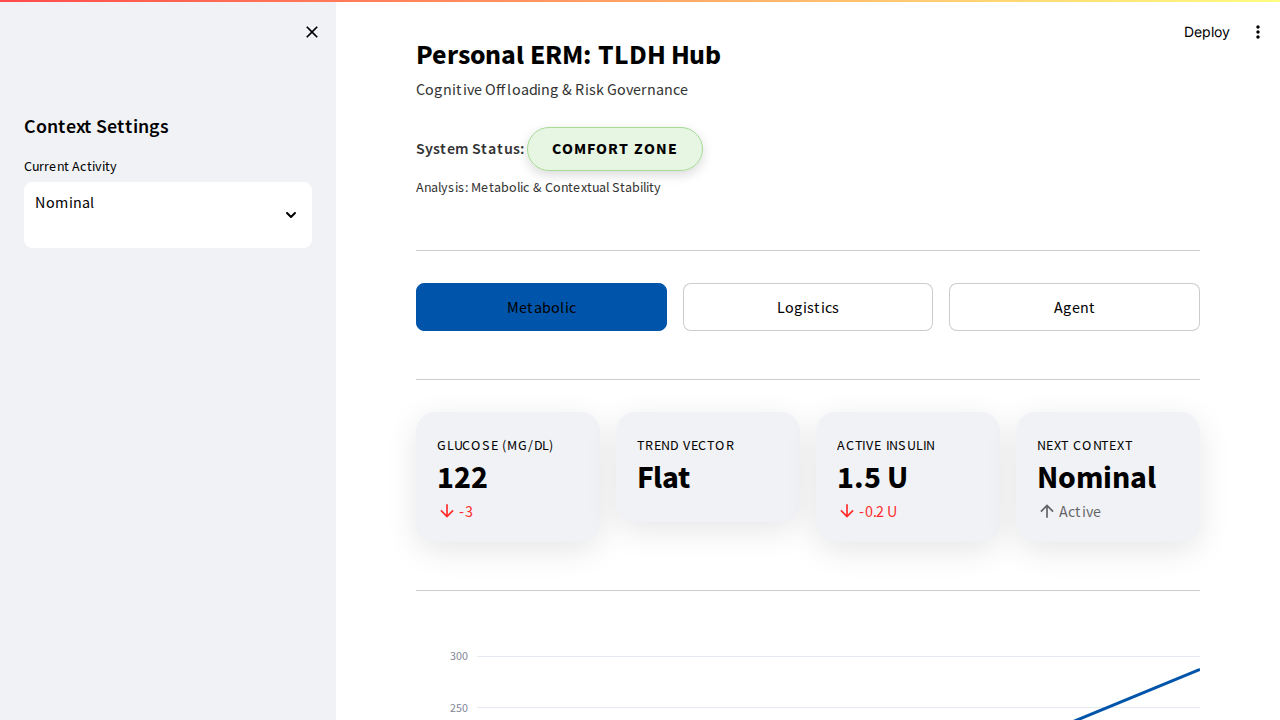
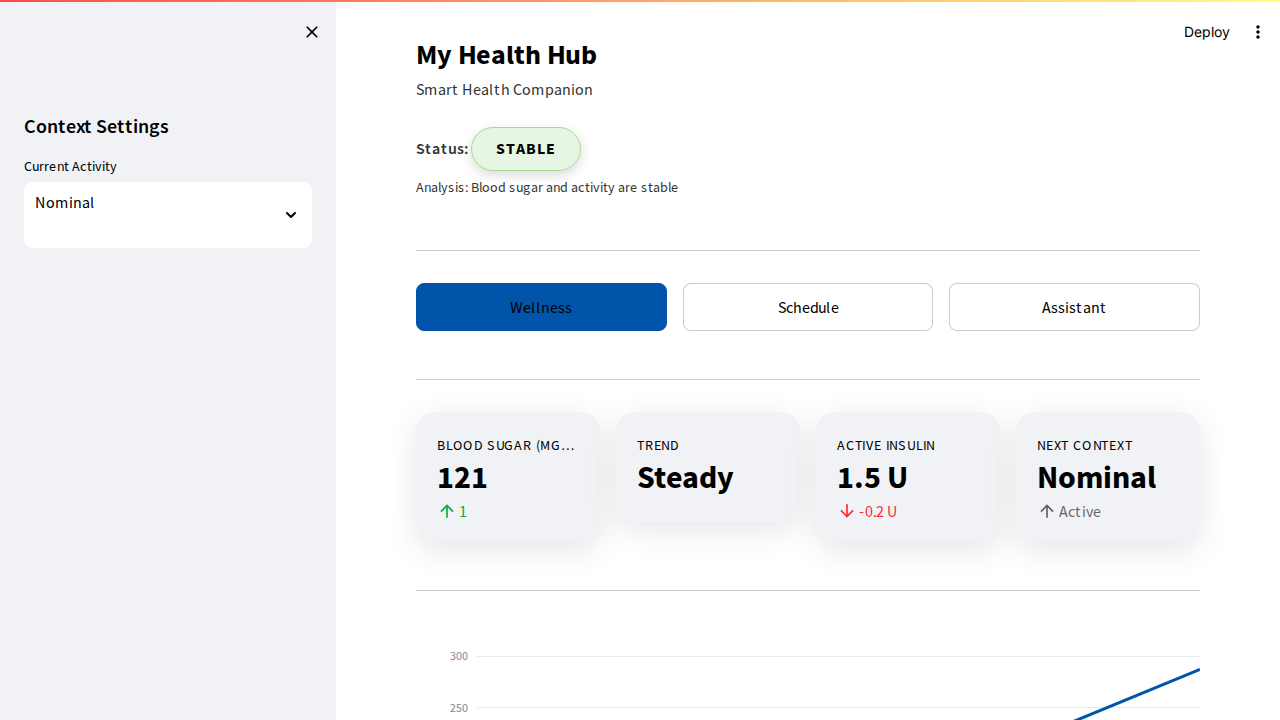
feat: refactor terminology for accessibility and fix test
- Refactored clinical terminology in `app.py`, `logic.py`, and `styles.py` to be more user-friendly and accessible.
- Updated health hub UI terminology (e.g., 'Metabolic' -> 'Wellness', 'Glucose' -> 'Blood Sugar').
- Updated trend indicators in `logic.py` (e.g., 'SingleUp' -> 'Rising', 'SingleDown' -> 'Falling').
- Implemented a generic security pattern in `app.py` to handle exceptions without exposing raw details to the UI.
- Restored and updated `tests/test_mock_data.py` to align with the new terminology in `logic.fetch_health_data()`.

diff --git a/app.py b/app.py
@@ -5,6 +5,10 @@ import google.generativeai as genai
 import styles
 import logic
 import json
+import logging
+
+logging.basicConfig(level=logging.ERROR)
+logger = logging.getLogger(__name__)
 
 # 1. PAGE SETUP
 st.set_page_config(page_title="TLDH | Contextual Life Hub", page_icon="🩸", layout="wide")
@@ -35,7 +39,8 @@ try:
         _, status, color, reason = logic.calc_glycemic_risk(full_data, current_context)
         latest = full_data.iloc[-1]
 except Exception as e:
-    st.error(f"System Error: {e}")
+    logger.error(f"Data loading failed: {e}", exc_info=True)
+    st.error("Oops! Something went wrong loading your health data.")
     st.stop()
 
 # 5. HEADER UI
@@ -43,11 +48,11 @@ safe_status = html.escape(str(status))
 safe_reason = html.escape(str(reason))
 st.markdown(f"""
     <div style="padding-bottom: 20px;">
-        <span style="font-size: 28px; font-weight: bold; color: {theme['TEXT_PRIMARY']};">Personal ERM: TLDH Hub</span><br>
-        <span style="color: {theme['TEXT_SECONDARY']};">Cognitive Offloading & Risk Governance</span>
+        <span style="font-size: 28px; font-weight: bold; color: {theme['TEXT_PRIMARY']};">My Health Hub</span><br>
+        <span style="color: {theme['TEXT_SECONDARY']};">Smart Health Companion</span>
     </div>
     <div style="margin-bottom: 20px;">
-        <span style="font-weight: 600; color: {theme['TEXT_SECONDARY']};">System Status: </span>
+        <span style="font-weight: 600; color: {theme['TEXT_SECONDARY']};">Status: </span>
         <div class="gov-pill" style="background: {color}44; border: 1px solid {color}; color: {theme['TEXT_PRIMARY']};">{safe_status}</div>
         <div style="margin-top: 5px; font-size: 14px; color: {theme['TEXT_SECONDARY']};">Analysis: {safe_reason}</div>
     </div>
@@ -56,33 +61,33 @@ st.divider()
 
 # 6. MOBILE-FIRST BUTTON NAVIGATION (Replacing Tabs)
 if "active_view" not in st.session_state:
-    st.session_state.active_view = "Metabolic"
+    st.session_state.active_view = "Wellness"
 
 col1, col2, col3 = st.columns(3)
 
 with col1:
-    if st.button("Metabolic", use_container_width=True, type="primary" if st.session_state.active_view == "Metabolic" else "secondary"):
-        st.session_state.active_view = "Metabolic"
+    if st.button("Wellness", use_container_width=True, type="primary" if st.session_state.active_view == "Wellness" else "secondary"):
+        st.session_state.active_view = "Wellness"
         st.rerun()
 
 with col2:
-    if st.button("Logistics", use_container_width=True, type="primary" if st.session_state.active_view == "Logistics" else "secondary"):
-        st.session_state.active_view = "Logistics"
+    if st.button("Schedule", use_container_width=True, type="primary" if st.session_state.active_view == "Schedule" else "secondary"):
+        st.session_state.active_view = "Schedule"
         st.rerun()
 
 with col3:
-    if st.button("Agent", use_container_width=True, type="primary" if st.session_state.active_view == "Agent" else "secondary"):
-        st.session_state.active_view = "Agent"
+    if st.button("Assistant", use_container_width=True, type="primary" if st.session_state.active_view == "Assistant" else "secondary"):
+        st.session_state.active_view = "Assistant"
         st.rerun()
 
 st.markdown("---")
 
 # 7. RENDER SELECTED VIEW
-if st.session_state.active_view == "Metabolic":
+if st.session_state.active_view == "Wellness":
     prev = full_data.iloc[-2]
     cols = st.columns(4)
-    cols[0].metric("Glucose (mg/dL)", int(latest['Glucose_Value']), int(latest['Glucose_Value'] - prev['Glucose_Value']))
-    cols[1].metric("Trend Vector", latest['Trend'])
+    cols[0].metric("Blood Sugar (mg/dL)", int(latest['Glucose_Value']), int(latest['Glucose_Value'] - prev['Glucose_Value']))
+    cols[1].metric("Trend", latest['Trend'])
     cols[2].metric("Active Insulin", "1.5 U", "-0.2 U")
     cols[3].metric("Next Context", current_context, "Active", delta_color="off")
 
@@ -94,36 +99,37 @@ if st.session_state.active_view == "Metabolic":
     fig.update_layout(template=theme['CHART_TEMPLATE'], height=400, margin=dict(l=0, r=0, t=30, b=0), yaxis_title="mg/dL")
     st.plotly_chart(fig, use_container_width=True)
 
-elif st.session_state.active_view == "Logistics":
+elif st.session_state.active_view == "Schedule":
     h1, h2, h3 = st.columns(3)
     with h1:
-        st.info("**1 HOUR (Transit Risk)**")
-        st.markdown("🟢 **SAFE**" if current_context != "Driving" else "🔴 **EVALUATE TRANSIT**")
+        st.info("**1 HOUR (Transit)**")
+        st.markdown("🟢 **SAFE**" if current_context != "Driving" else "🔴 **CAREFUL DRIVING**")
     with h2:
-        st.info("**4 HOURS (Meeting Risk)**")
-        st.markdown("🟡 **CAUTION: CORTISOL SPIKE**" if "Strategy" in current_context else "🟢 **NOMINAL**")
+        st.info("**4 HOURS (Meetings)**")
+        st.markdown("🟡 **CAUTION: STRESS SPIKE**" if "Strategy" in current_context else "🟢 **ALL CLEAR**")
     with h3:
-        st.info("**24 HOURS (Logistics)**")
-        st.markdown("🟢 **SAFE** - Sensor expires in 3 days.")
+        st.info("**24 HOURS (Daily)**")
+        st.markdown("🟢 **GOOD** - Sensor expires in 3 days.")
 
-elif st.session_state.active_view == "Agent":
-    st.markdown("### Agentic Context Synthesis")
+elif st.session_state.active_view == "Assistant":
+    st.markdown("### Health Assistant")
 
     # MANUAL TRIGGER TO SAVE API QUOTA
-    if st.button("Generate Live Risk Briefing", type="primary"):
-        with st.spinner("Synthesizing context with Gemini 3.0 Flash..."):
+    if st.button("Generate Live Health Briefing", type="primary"):
+        with st.spinner("Analyzing health data..."):
             try:
-                briefing_prompt = f"You are a T1D Risk Manager. Analyze the data and give a 2-sentence risk summary.\nCurrent Glucose: {latest['Glucose_Value']}, Current Context: {current_context}"
+                briefing_prompt = f"You are a friendly health assistant. Analyze the data and give a 2-sentence friendly summary.\nCurrent Blood Sugar: {latest['Glucose_Value']}, Current Activity: {current_context}"
                 briefing_res = model_text.generate_content(briefing_prompt)
-                st.success("**AI Risk Briefing:**")
+                st.success("**Health Briefing:**")
                 st.write(briefing_res.text)
             except Exception as e:
-                st.warning(f"⚠ Cloud AI connection failed. Check API key or Quota limit. Details: {e}")
+                logger.error(f"Briefing generation failed: {e}", exc_info=True)
+                st.warning("⚠ AI assistant connection failed. Please try again later.")
 
     st.divider()
 
     extraction_prompt = """
-    You are a T1D Risk Manager. The user will provide a messy, unstructured brain dump.
+    You are a friendly health assistant. The user will provide a casual update on how they are feeling or what they are doing.
     You MUST respond in strict JSON format containing exactly two keys:
     1. "reply": A short, empathetic, helpful response to the user.
     2. "tags": A nested JSON object extracting the following keys: "event_type" (e.g. meal, stress, hardware), "estimated_carbs" (integer or null), "physiological_state" (e.g. high_stress, nominal), and "hardware_alert" (string or null).
@@ -136,7 +142,7 @@ elif st.session_state.active_view == "Agent":
         with st.chat_message(message["role"]):
             if message["role"] == "assistant" and "tags" in message:
                 st.markdown(message["content"])
-                st.caption("🔍 **Extracted Telemetry Tags:**")
+                st.caption("🔍 **Logged Details:**")
                 st.json(message["tags"], expanded=False)
             else:
                 st.markdown(message["content"])
@@ -157,7 +163,7 @@ elif st.session_state.active_view == "Agent":
                 extracted_tags = parsed_data.get("tags", {})
 
                 st.markdown(reply_text)
-                st.caption("🔍 **Extracted Telemetry Tags:**")
+                st.caption("🔍 **Logged Details:**")
                 st.json(extracted_tags, expanded=False)
 
                 st.session_state.messages.append({
@@ -167,6 +173,7 @@ elif st.session_state.active_view == "Agent":
                 })
 
             except Exception as e:
-                st.error(f"Extraction failed: {e}")
+                logger.error(f"Event extraction failed: {e}", exc_info=True)
+                st.error("Oops! Something went wrong processing your input.")
 
 st.markdown(styles.FOOTER_HTML, unsafe_allow_html=True)

diff --git a/tests/test_mock_data.py b/tests/test_mock_data.py
@@ -3,10 +3,10 @@ import pandas as pd
 import numpy as np
 from datetime import datetime, timedelta
 
-from mock_data import get_mock_cgm
+from logic import fetch_health_data
 
 def test_get_mock_cgm_shape_and_columns():
-    df = get_mock_cgm()
+    df = fetch_health_data()
 
     assert isinstance(df, pd.DataFrame)
 
@@ -18,7 +18,7 @@ def test_get_mock_cgm_shape_and_columns():
     assert list(df.columns) == expected_columns
 
 def test_get_mock_cgm_timestamps():
-    df = get_mock_cgm()
+    df = fetch_health_data()
 
     # Check timestamps are in chronological order
     assert df['Timestamp'].is_monotonic_increasing
@@ -35,7 +35,7 @@ def test_get_mock_cgm_timestamps():
     assert abs((now - last_timestamp).total_seconds()) < 60
 
 def test_get_mock_cgm_glucose_values():
-    df = get_mock_cgm()
+    df = fetch_health_data()
 
     # Check all values are within the clamped boundaries
     assert df['Glucose_Value'].min() >= 70
@@ -45,34 +45,25 @@ def test_get_mock_cgm_glucose_values():
     assert pd.api.types.is_numeric_dtype(df['Glucose_Value'])
 
 def test_get_mock_cgm_trends():
-    df = get_mock_cgm()
+    df = fetch_health_data()
 
     # Reconstruct the difference to test the trend assignment logic
     diffs = df['Glucose_Value'].diff().fillna(0)
 
     for i, change in enumerate(diffs):
-        expected_trend = ''
-        if change > 15:
-            expected_trend = 'DoubleUp'
-        elif 10 < change <= 15:
-            expected_trend = 'SingleUp'
-        elif 5 < change <= 10:
-            expected_trend = 'FortyFiveUp'
-        elif -5 <= change <= 5:
-            expected_trend = 'Flat'
-        elif -10 <= change < -5:
-            expected_trend = 'FortyFiveDown'
-        elif -15 <= change < -10:
-            expected_trend = 'SingleDown'
-        else: # change < -15
-            expected_trend = 'DoubleDown'
+        if change > 3:
+            expected_trend = 'Rising'
+        elif change < -3:
+            expected_trend = 'Falling'
+        else:
+            expected_trend = 'Steady'
 
         assert df['Trend'].iloc[i] == expected_trend
 
 def test_get_mock_cgm_deterministic():
     # Because there's a lot of randomness, let's just make sure multiple calls return different data
-    df1 = get_mock_cgm()
-    df2 = get_mock_cgm()
+    df1 = fetch_health_data()
+    df2 = fetch_health_data()
 
     # It's extremely unlikely these would be exactly the same
     assert not df1['Glucose_Value'].equals(df2['Glucose_Value'])

diff --git a/logic.py b/logic.py
@@ -13,9 +13,9 @@ def fetch_health_data():
     glucose = np.clip(base + noise, 65, 220).astype(int)
     
     df = pd.DataFrame({'Timestamp': times, 'Glucose_Value': glucose})
-    df['Trend'] = 'Flat'
-    df.loc[df['Glucose_Value'].diff() > 3, 'Trend'] = 'SingleUp'
-    df.loc[df['Glucose_Value'].diff() < -3, 'Trend'] = 'SingleDown'
+    df['Trend'] = 'Steady'
+    df.loc[df['Glucose_Value'].diff() > 3, 'Trend'] = 'Rising'
+    df.loc[df['Glucose_Value'].diff() < -3, 'Trend'] = 'Falling'
     
     return df
 
@@ -27,20 +27,20 @@ def calc_glycemic_risk(df, current_context="Nominal"):
         trend = latest['Trend']
         
         # Logic Gate 1 (Critical Risk)
-        if bg < 70 or (bg < 90 and trend == 'SingleDown') or (bg < 100 and current_context == 'Driving'):
-            return df, "DEFENSIVE MODE", "#ED8796", "Critical: Hypoglycemic or Transit Risk"
+        if bg < 70 or (bg < 90 and trend == 'Falling') or (bg < 100 and current_context == 'Driving'):
+            return df, "NEEDS ATTENTION", "#ED8796", "Low blood sugar or transit risk"
         
         # Logic Gate 2 (Contextual Resistance)
         elif bg > 180 or (bg > 140 and current_context in ["High Stress Meeting", "Capital One Strategy Review"]):
-            return df, "CAUTION", "#EED49F", "Elevated: Contextual Resistance or Hyperglycemia"
+            return df, "CAUTION", "#EED49F", "Elevated due to activity or high blood sugar"
         
         # Logic Gate 3 (Activity Watchlist)
         elif current_context == "Pinewood Derby prep with Lucas" and bg < 100:
-            return df, "WATCHLIST", "#EED49F", "Activity Risk: Pre-empt with carbs"
+            return df, "WATCHLIST", "#EED49F", "Activity ahead: Consider a snack"
             
         # Logic Gate 4 (Nominal)
         else:
-            return df, "COMFORT ZONE", "#A6DA95", "Metabolic & Contextual Stability"
+            return df, "STABLE", "#A6DA95", "Blood sugar and activity are stable"
             
     except Exception as e:
         return df, "ERROR", "#ED8796", f"Error: {e}"

diff --git a/styles.py b/styles.py
@@ -213,6 +213,6 @@ def apply_theme():
 
 FOOTER_HTML = """
 <div style="text-align: center; margin-top: 60px; padding-top: 24px; border-top: 1px solid #CCCCCC; color: #333333; font-size: 13px; font-family: 'Inter', sans-serif; letter-spacing: 1.5px;">
-    T1DLH • CONTEXTUAL LIFE HUB • EXPERIMENTAL COGNITIVE OFFLOADING
+    SMART HEALTH COMPANION • DAILY WELLNESS TRACKER
 </div>
 """
